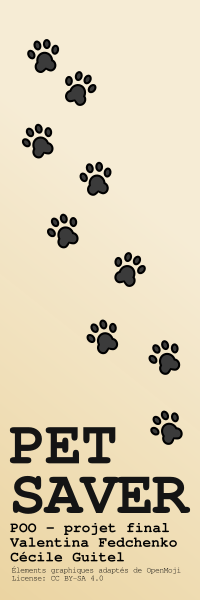
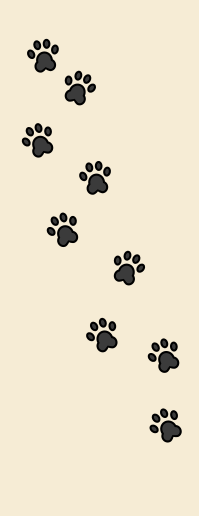
couleur, police, etc

diff --git a/GI_VMC/CarteMenu.java b/GI_VMC/CarteMenu.java
@@ -4,7 +4,8 @@ import java.io.File;
 import java.io.IOException;
 import javax.imageio.ImageIO;
 import java.awt.image.BufferedImage;
-import javax.swing.ImageIcon;
+import javax.swing.border.Border;
+import javax.swing.border.LineBorder;
 
 public abstract class CarteMenu extends JPanel { //pour les cartes menuAction et jouer
 	private JPanel menuGauche;
@@ -27,68 +28,79 @@ public abstract class CarteMenu extends JPanel { //pour les cartes menuAction et
 	protected void setUp() {
 		this.setLayout(new BorderLayout());
 
-		this.menuGauche = new JPanel(new BorderLayout());
-		
-/*import java.awt.FlowLayout;
-import java.awt.image.BufferedImage;
-import javax.swing.ImageIcon;
-import javax.swing.JLabel;
-import javax.swing.JPanel;
-	BufferedImage monImage;
-	JLabel imageFon;
-	
-	Carte (String chemin) {
-		try {
-			monImage = ImageIO.read(new File(chemin));
-			imageFon = new JLabel(new ImageIcon(monImage));
-			imageFon.setLayout(new FlowLayout());
-			this.add(imageFon);
-		}
-		catch (IOException e) {
-			System.err.println("IO error: "+ e.getMessage());
-			e.printStackTrace();
-		}
-	}*/
+		this.contenuDroite = new JPanel();
+		this.add(this.contenuDroite, BorderLayout.CENTER);
 
+		this.menuGauche = new JPanel(new BorderLayout());
 		this.add(this.menuGauche, BorderLayout.WEST);
 
-		JLabel titre = new JLabel("PET SAVER");
+		JLabel titre1 = new JLabel("PET");
+		titre1.setFont(new Font("freemono", Font.BOLD, 65));
+		JLabel titre2 = new JLabel("SAVER");
+		titre2.setFont(new Font("freemono", Font.BOLD, 65));
 		JLabel auteure1 = new JLabel("Valentina Fedchenko");
+		auteure1.setFont(new Font("FreeMono", Font.BOLD, 20));
 		JLabel auteure2 = new JLabel("Cécile Guitel");
+		auteure2.setFont(new Font("FreeMono", Font.BOLD, 20));
 		JLabel credits1 = new JLabel("Élements graphiques adaptés de OpenMoji");
-		JLabel credits2 = new JLabel("License: CC BY-SA 4.0");
-		JPanel panelTexte = new JPanel(new GridLayout(5,1));
-		panelTexte.add(titre);
+		credits1.setFont(new Font("FreeMono", Font.BOLD, 10));
+		JLabel credits2 = new JLabel("License : CC BY-SA 4.0");
+		credits2.setFont(new Font("FreeMono", Font.BOLD, 10));
+		JPanel panelTexte = new JPanel();
+		panelTexte.setLayout(new BoxLayout(panelTexte, BoxLayout.PAGE_AXIS));
+		panelTexte.add(titre1);
+		panelTexte.add(titre2);
 		panelTexte.add(auteure1);
 		panelTexte.add(auteure2);
 		panelTexte.add(credits1);
 		panelTexte.add(credits2);
+		panelTexte.setBackground(new Color(0,0,0,0));
+		panelTexte.setBorder(new LineBorder(new Color(246,236,213,255), 10, true));
 		this.menuGauche.add(panelTexte, BorderLayout.SOUTH);
 
-		this.contenuDroite = new JPanel();
-		this.add(this.contenuDroite, BorderLayout.CENTER);
+		class PanelImage extends JPanel {
+			private BufferedImage image;
+
+			public PanelImage(String chemin){
+				try {
+					this.image = ImageIO.read(new File(chemin));
+				} catch (IOException exception) {
+					System.err.println("IO error: "+ exception.getMessage());
+					exception.printStackTrace();
+				}
+				this.setBackground(new Color(246,236,213,255));
+			}
+			public void paintComponent(Graphics g){
+				super.paintComponent(g);
+				g.drawImage(this.image,0,0,this);
+			}
+		}
+
+		PanelImage fond = new PanelImage("./../éléments visuels/menu background.png");
+		this.menuGauche.add(fond, BorderLayout.CENTER);
+
+		this.menuGauche.setBackground(new Color(246,236,213,255));
+		this.contenuDroite.setBackground(new Color(246,236,213,255));
 	}
 
-	/*private class MenuGauche extends JPanel { //pour pouvoir rajouter le fond
-		public MenuGauche() {
-			super(new BorderLayout());
-		}
-
-		public void paintComponent(Graphics g) {
-			g.drawImage(CarteMenu.fondMenu, 0, 0, null);
-		}
-	}*/
-
 	protected void ajouterActions(JButton[] actions) {
-		JPanel panelActions = new JPanel(new GridLayout(actions.length, 1));
+		GridLayout layout = new GridLayout(actions.length, 1);
+		layout.setVgap(5);
+		layout.setHgap(5);
+		JPanel panelActions = new JPanel(layout);
+		panelActions.setBackground(new Color(246,236,213,255));
+		panelActions.setBorder(new LineBorder(new Color(246,236,213,255), 10, true));
 		for (JButton action : actions) {
+			action.setMargin(new Insets(2,2,2,2));
+			action.setFont(new Font("FreeMono", Font.BOLD, 15));
 			panelActions.add(action);
 		}
 		this.menuGauche.add(panelActions, BorderLayout.NORTH);
 	}
 
 	protected void ajouterLabel(JLabel label) {
+		label.setBackground(new Color(246,236,213,255));
+		label.setFont(new Font("FreeMono", Font.BOLD, 15));
 		this.menuGauche.add(label, BorderLayout.NORTH);
-	}
-//	
+	}	
 }

diff --git a/GI_VMC/VueIG.java b/GI_VMC/VueIG.java
@@ -10,10 +10,10 @@ public class VueIG extends JFrame implements Vue { //la fenêtre en gros
 		this.controleurIG = controleurIG;
 		this.fenetre.setDefaultCloseOperation(JFrame.EXIT_ON_CLOSE);
 		this.fenetre.setSize(900,900);
-		this.setContentPane(new JLabel(new ImageIcon("./../éléments visuels/menu background.png")));
 		this.fenetre.setVisible(true);
 		this.contenu.setLayout(new CardLayout(0,0));
 		this.contenu.add(new CarteMenuInitialisation(this.controleurIG)); //l'équivalent de lancer menuInitialisation()
+		//this.getContentPane().setBackground(new Color(150,150,0,150)); //ne marche pas...
 	}
 	
 	public <T extends Component> void jouer(T cartePartie) { //une carte de base menuAction, on ajoute une carte jouer
